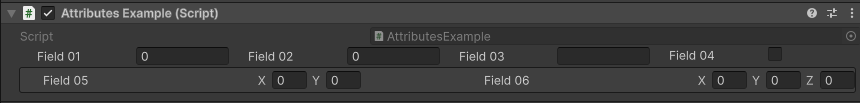
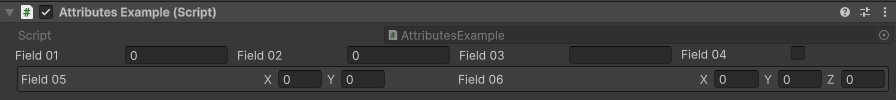
Update 3.0.1

diff --git a/docs/source/Attributes/DropdownAttributes/typedropdown.rst b/docs/source/Attributes/DropdownAttributes/typedropdown.rst
@@ -5,6 +5,7 @@ Attribute to make a dropdown of type paths
 
 **Parameters:**
 	- `optional`, ``string`` assemblyName: Filter which types are displayed by the assembly name
+	- `optional`, ``string`` baseTypeFilter: Filter which types are displayed by their base type. The base type itself will not be included
 
 .. note::
 	The `TypeDropdown Attribute` can only be attached to a ``string``
@@ -21,14 +22,15 @@ The dropdown will return a string that can be used with the `Type.GetType() <htt
 
 .. image:: ../../Media/TypeDropdown01.gif
 
-By default the dropdown will display all visible types in the project, but you can also filter which types you display by the assembly name which will also show internal and private types::
+By default the dropdown will display all visible types in the project, but you can also filter which types you display by the assembly name and base type which will also show internal and private types::
 
 	using UnityEngine;
 	using EditorAttributes;
 	
 	public class AttributesExample : MonoBehaviour
 	{
-		[SerializeField, TypeDropdown("UnityEngine.CoreModule")] private string typePath;
+    	[SerializeField, TypeDropdown("UnityEngine.CoreModule")] private string typePath;
+    	[SerializeField, TypeDropdown(baseTypeFilter: typeof(AttributesExample))] private string childrenTypePath;
 	}
 
 .. image:: ../../Media/TypeDropdown02.gif

diff --git a/docs/source/Attributes/ButtonAttributes/buttonfield.rst b/docs/source/Attributes/ButtonAttributes/buttonfield.rst
@@ -6,10 +6,11 @@ Attribute to add a button in the inspector in place of a field.
 **Parameters:**
 	- ``string`` functionName: The name of the function to call
 	- ``bool`` isRepetable: Makes the button repeat logic on hold
-	- `optional`, ``long`` pressDelay: How many milliseconds to wait before the logic is executed on hold
+	- `optional`, ``long`` pressDelay: How many milliseconds to wait before the logic is repeated
 	- `optional`, ``long`` repetitionInterval: The interval in milliseconds the logic will repeat
 	- `optional`, ``string`` buttonLabel: The label displayed on the button
 	- `optional`, ``float`` buttonHeight: The height of the button in pixels
+	- `optional`, ``bool`` makeDirty: Whether to mark the object as dirty after invoking the function
 
 Buttons made using the :doc:`button` will always be drawn after all the fields, use the `ButtonField Attribute` instead if you want to add buttons anywhere in the inspector::
 

diff --git a/docs/source/Attributes/ButtonAttributes/button.rst b/docs/source/Attributes/ButtonAttributes/button.rst
@@ -9,11 +9,12 @@ Attribute to add a button in the inspector.
 	- ``object`` enumValue: The value of the enum condition
 	- ``ConditionResult`` conditionResult: What happens to the button when the condition evaluates to true
 	- `optional`, ``bool`` negate: Negate the evaluated condition
-	- `optional`, ``long`` pressDelay: How many milliseconds to wait before the logic is executed on hold
+	- `optional`, ``long`` pressDelay: How many milliseconds to wait before the logic is repeated
 	- `optional`, ``long`` repetitionInterval: The interval in milliseconds the logic will repeat
 	- `optional`, ``string`` buttonLabel: The label displayed on the button
 	- `optional`, ``float`` buttonHeight: The height of the button in pixels
 	- `optional`, ``bool`` serializeParameters: Have the button parameters persist between selections
+	- `optional`, ``bool`` makeDirty: Whether to mark the object as dirty after invoking the function
 
 Example::
 

diff --git a/docs/source/changelogs.rst b/docs/source/changelogs.rst
@@ -1,6 +1,18 @@
 Changelogs
 ==========
 
+EditorAttributes v3.0.1 Changelog:
+----------------------------------
+- Added the ability to filter TypeDropdown by certain types
+- Added makeDirty parameter to ButtonField Attribute
+- Slightly adjusted group alignments
+- DataTables can now contain serialized objects and collections
+- The editor attributes drawing of the default inspector can now be disabled
+- Fixed DataTable drawing labels in collections past the first element
+- Fixed finding property members inside serialized classes throwing an error
+- Fixed Dropdown reseting value after refreshing the inspector when using dictionaries
+- Fixed AssetPreview not displaying sliced sprites
+
 EditorAttributes v3.0.0 Changelog:
 ----------------------------------
 - Project refactoring

diff --git a/docs/source/Attributes/ButtonAttributes/inlinebutton.rst b/docs/source/Attributes/ButtonAttributes/inlinebutton.rst
@@ -6,10 +6,11 @@ Attribute to add a button next to a property.
 **Parameters:**
 	- ``string`` functionName: The name of the function the button activates
 	- ``bool`` isRepetable: Makes the button repeat logic on hold
-	- `optional`, ``long`` pressDelay: How many milliseconds to wait before the logic is executed on hold
+	- `optional`, ``long`` pressDelay: How many milliseconds to wait before the logic is repeated
 	- `optional`, ``long`` repetitionInterval: The interval in milliseconds the logic will repeat
 	- `optional`, ``string`` buttonLabel: The label displayed on the button
 	- `optional`, ``float`` buttonWidth: The width of the button in pixels
+	- `optional`, ``bool`` makeDirty: Whether to mark the object as dirty after invoking the function
 
 Example::
 

diff --git a/docs/source/GettingStarted/editorattributessettings.rst b/docs/source/GettingStarted/editorattributessettings.rst
@@ -3,6 +3,15 @@ EditorAttributes Settings
 
 The settings for EditorAttributes package are located in `Edit/ProjectSettings/EditorAttributes`.
 
+Disable Editor Extension
+------------------------
+
+Disables the drawing of the editor by the editor extension script, usefull if you want to override the base ``UnityEngine.Object`` yourself.
+
+.. warning::
+	The following attributes will stop working when enabling this setting: :doc:`../Attributes/ButtonAttributes/button`, :doc:`../Attributes/DecorativeAttributes/guicolor`,
+	:doc:`../Attributes/DecorativeAttributes/propertyorder`, :doc:`../Attributes/MiscellaneousAttributes/hideproperty`, :doc:`../Attributes/MiscellaneousAttributes/showininspector`.
+
 Disable Build Validation
 ------------------------
 

diff --git a/docs/source/Scripting API/propertydrawerbase.rst b/docs/source/Scripting API/propertydrawerbase.rst
@@ -80,6 +80,23 @@ Declaration::
 	- ``SerializedProperty`` property: The attached serialized property
 	- ``string`` clipboardValue: The current clipboard value
 
+IsSupportedPropertyType(SerializedProperty)
+^^^^^^^^^^^^^^^^^^^^^^^^^^^^^^^^^^^^^^^^^^^
+
+Checks to see if the property type is supported by the drawer.
+
+.. note::
+	This always returns true by default, override it to add custom type checks.
+
+Declaration::
+
+	protected virtual bool IsSupportedPropertyType(SerializedProperty property)
+	
+**Parameters:**
+	- ``SerializedProperty`` property: The serialized property to check
+
+**Returns:** ``bool``: True if the type is supported, false otherwise
+
 CreatePropertyField(SerializedProperty)
 ^^^^^^^^^^^^^^^^^^^^^^^^^^^^^^^^^^^^^^^
 

diff --git a/docs/source/GettingStarted/faq&issues.rst b/docs/source/GettingStarted/faq&issues.rst
@@ -17,7 +17,7 @@ Frequently Asked Questions
 
 Q: With what Unity version is the package compatible with?
 
-A: The package is compatible with Unity 2022 and above, but there a few features that are only available in Unity 6 and above. Package versions before v2.2.0 that use ImGUI may be compatible with Unity 2021 as well.
+A: The package is compatible with Unity 6.0 and above. Editor Attributes versions eariler then 3.0.0 are also compatible with Unity 2022.
 
 Q: Does this package serialize Dictionaries, HashSets, 2D Arrays, etc.?
 

diff --git a/docs/source/Attributes/GroupingAttributes/datatable.rst b/docs/source/Attributes/GroupingAttributes/datatable.rst
@@ -29,6 +29,3 @@ Example::
 	}
 
 .. image:: ../../Media/DataTable01.png
-
-.. note:: 
-	The data table can't contain collections, UnityEvents or other serialized structs or classes
